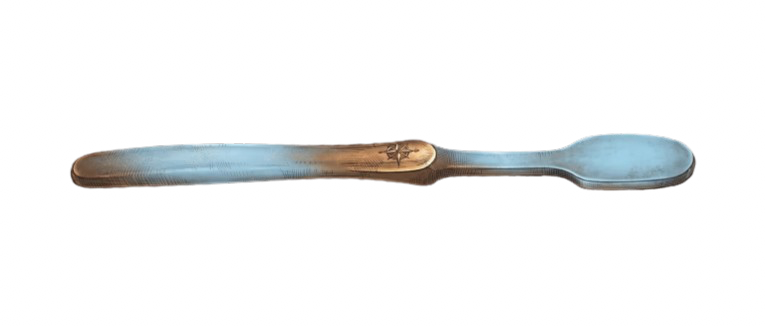
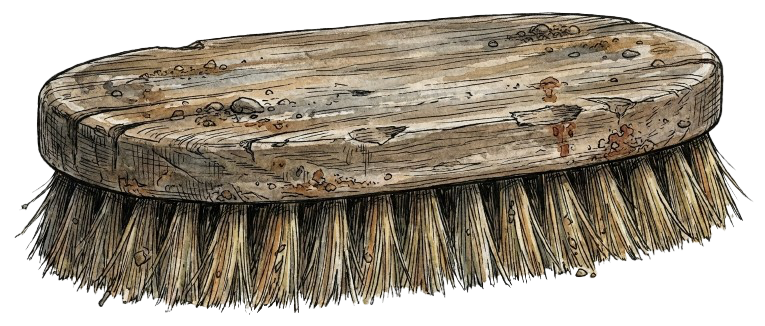
Enhance crab mini-game with multi-layer puzzle and textures
- Replace procedural seaweed with texture-based layers
- Add 3 difficulty levels: easy seaweed, medium patches, tough barnacles
- Scrubbing effectiveness varies by difficulty (smaller radius for harder areas)
- Add verbal feedback during scrubbing with placeholder sounds
- New brush.png replaces old scrub-brush.png
- Reward: seaweed-item.png added to inventory when puzzle completed
- Multi-layer system: seaweed-layer1/2/3.png + barnacle1/2.png

diff --git a/project/Adventure Scene.dc.html b/project/Adventure Scene.dc.html
@@ -580,6 +580,7 @@ class Component extends DCLogic {
     fishline: { type: "item", name: "Fiskelina", art: "", img: "assets/fishing-line.png", pickable: true, desc: "En ihoprullad fiskelina med krok, räddad från måsen. Stark och lång — bra att binda med." },
     bottle:   { type: "item", name: "Flaska", art: "", img: "assets/bottle.png", pickable: true, desc: "Utterns berömda flaska, försiktigt lossad. Fortfarande med en air av societet." },
     helmet:   { type: "item", name: "Dykhjälm", art: "", img: "assets/helmet.png", pickable: true, desc: "En gammal mässingsdykhjälm. Tung, rostig i kanterna, men fönstret är helt. Kanske den kan kopplas till något som leder ner under ytan." },
+    seaweed:  { type: "item", name: "Sjögräs", art: "", img: "assets/seaweed-item.png", pickable: true, desc: "En bit av det sega sjögräs som höll krabban fången. Känns fortfarande lite hårt." },
   };
 
   componentDidMount() {
@@ -2510,33 +2511,125 @@ class Component extends DCLogic {
     if (!el || el === this.scrubCanvasEl) return;
     this.scrubCanvasEl = el;
     const ctx = el.getContext("2d");
-    // seaweed layer covering the crab
-    const g = ctx.createLinearGradient(0, 0, el.width, el.height);
-    g.addColorStop(0, "#2f5d3a");
-    g.addColorStop(0.5, "#3c7047");
-    g.addColorStop(1, "#27513a");
-    ctx.fillStyle = g;
-    ctx.fillRect(0, 0, el.width, el.height);
-    // strands of seaweed texture
-    for (let i = 0; i < 90; i++) {
-      ctx.strokeStyle = `rgba(${20 + Math.random() * 40}, ${70 + Math.random() * 50}, ${40 + Math.random() * 30}, 0.7)`;
-      ctx.lineWidth = 4 + Math.random() * 9;
-      ctx.lineCap = "round";
-      ctx.beginPath();
-      const x = Math.random() * el.width, y = Math.random() * el.height;
-      ctx.moveTo(x, y);
-      ctx.bezierCurveTo(x + 20 - Math.random() * 40, y + 30, x - 20 + Math.random() * 40, y + 60, x + 10 - Math.random() * 20, y + 95);
-      ctx.stroke();
-    }
+
+    // Create multi-layer seaweed puzzle with different textures
+    this.scrubLayers = [];
+
+    // Load and create layers with different difficulty levels
+    const loadLayer = (imgSrc, difficulty, x, y, scale) => {
+      const img = new Image();
+      img.src = imgSrc;
+      return { img, difficulty, x, y, scale, loaded: false };
+    };
+
+    // Layer 1: Easy seaweed (background coverage)
+    this.scrubLayers.push(loadLayer("assets/seaweed-layer1.png", 1, 0, 0, 1));
+
+    // Layer 2: Medium seaweed patches
+    this.scrubLayers.push(loadLayer("assets/seaweed-layer2.png", 2, 50, 30, 0.8));
+    this.scrubLayers.push(loadLayer("assets/seaweed-layer3.png", 2, 300, 100, 0.7));
+
+    // Layer 3: Tough barnacles (hardest to clean)
+    this.scrubLayers.push(loadLayer("assets/barnacle1.png", 3, 150, 200, 0.6));
+    this.scrubLayers.push(loadLayer("assets/barnacle2.png", 3, 350, 150, 0.5));
+
+    // Wait for images to load then draw
+    let loadedCount = 0;
+    const checkLoaded = () => {
+      loadedCount++;
+      if (loadedCount === this.scrubLayers.length) {
+        this.drawScrubLayers(ctx, el.width, el.height);
+      }
+    };
+
+    this.scrubLayers.forEach(layer => {
+      if (layer.img.complete) {
+        layer.loaded = true;
+        checkLoaded();
+      } else {
+        layer.img.onload = () => {
+          layer.loaded = true;
+          checkLoaded();
+        };
+      }
+    });
+
     ctx.globalCompositeOperation = "destination-out";
-    let scrubbing = false, lastCheck = 0;
+    let scrubbing = false, lastCheck = 0, lastFeedback = 0;
     const pos = (ev) => {
       const r = el.getBoundingClientRect();
       return { x: (ev.clientX - r.left) * (el.width / r.width), y: (ev.clientY - r.top) * (el.height / r.height) };
     };
+  drawScrubLayers(ctx, width, height) {
+    // Clear canvas
+    ctx.clearRect(0, 0, width, height);
+
+    // Draw each layer
+    this.scrubLayers.forEach(layer => {
+      if (layer.loaded) {
+        ctx.save();
+        ctx.translate(layer.x, layer.y);
+        ctx.scale(layer.scale, layer.scale);
+        ctx.drawImage(layer.img, 0, 0);
+        ctx.restore();
+      }
+    });
+  }
+
+  getScrubDifficultyAt(x, y) {
+    // Check which layer pixel is being scrubbed
+    let maxDifficulty = 1;
+    this.scrubLayers.forEach(layer => {
+      if (!layer.loaded) return;
+      const localX = (x - layer.x) / layer.scale;
+      const localY = (y - layer.y) / layer.scale;
+      if (localX >= 0 && localX <= layer.img.width && localY >= 0 && localY <= layer.img.height) {
+        maxDifficulty = Math.max(maxDifficulty, layer.difficulty);
+      }
+    });
+    return maxDifficulty;
+  }
+
+  playScrubFeedback(difficulty) {
+    const now = Date.now();
+    if (now - (this.scrubLastFeedback || 0) < 800) return; // Don't play too frequently
+    this.scrubLastFeedback = now;
+
+    // Placeholder verbal feedback based on difficulty
+    const phrases = {
+      1: ["Kliar det!", "Så där ja!", "Fortsätt så!"],
+      2: ["Lite segare!", "Kräftor vad det sitter!", "Håll ut!"],
+      3: ["Hjälp vad det sitter!", "Tufft jobb!", "Sega sillar!"]
+    };
+
+    const phraseList = phrases[difficulty] || phrases[1];
+    const phrase = phraseList[Math.floor(Math.random() * phraseList.length)];
+
+    // Simple beep as placeholder
+    this.sfx("click");
+
+    // Show feedback text
+    this.say("Krabban", phrase, null);
+
+    // Clear feedback after a moment
+    setTimeout(() => {
+      if (this.state.dialogSpeaker === "Krabban") {
+        this.setState({ dialogSpeaker: "", dialogText: "" });
+      }
+    }, 1200);
+  }
+
     const scrubAt = (p) => {
+      const difficulty = this.getScrubDifficultyAt(p.x, p.y);
+      const scrubRadius = 26 / difficulty; // Smaller radius for harder areas
+
+      // Play feedback occasionally based on difficulty
+      if (Math.random() < 0.15 * difficulty) {
+        this.playScrubFeedback(difficulty);
+      }
+
       ctx.beginPath();
-      ctx.arc(p.x, p.y, 26, 0, Math.PI * 2);
+      ctx.arc(p.x, p.y, scrubRadius, 0, Math.PI * 2);
       ctx.fill();
     };
     const moveBrush = (ev) => {
@@ -2591,7 +2684,21 @@ class Component extends DCLogic {
         { duration: 700, easing: "ease-out" }
       );
     }
-    this.crabSpeak("Äntligen fri! Det där sjögräset kliade något förskräckligt. Tack, vännen!", "assets/crab-thanks.mp3");
+    this.crabSpeak("Äntligen fri! Det där sjögräset kliade något förskräckligt. Tack, vännen! Här, ta den här biten som minne.", "assets/crab-thanks.mp3");
+
+    // Add seaweed to inventory as reward
+    setTimeout(() => {
+      this.setState((s) => ({
+        inventory: [...s.inventory, {
+          uid: ++this.uid,
+          defId: "seaweed",
+          name: "Sjögräs",
+          art: "",
+          img: "assets/seaweed-item.png",
+          desc: "En bit av det sega sjögräs som höll krabban fången. Känns fortfarande lite hårt."
+        }]
+      }));
+    }, 1500);
   }
 
   crabSpeak(line, voiceSrc) {
